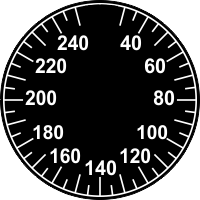
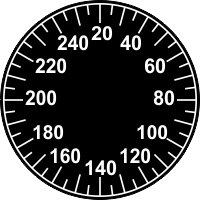
Přidán další budík + úprava bugu

Changed region(s): [[0.42, 0.0, 0.57, 0.21]]

diff --git a/GJAProject/src/cz/vutbr/fit/gja/proj/SpeedPanel.java b/GJAProject/src/cz/vutbr/fit/gja/proj/SpeedPanel.java
@@ -36,22 +36,37 @@ public class SpeedPanel extends JPanel implements PanelInterface
 
    public void setNumber(double start)
   {
-    if(this.max == 120.0)
+    if(this.max == 72.0)
     {
-      if(start > 120)
-      {
-        start = 120;
-      }
-      this.rotation = (360.0/(max/(double)start));
+        if(start > 720)
+        {
+          start = 720;
+        }
+        this.rotation = (360.0/(max/(double)start)); 
     }
     else
     {
-      if(start > 260)
+      if(this.max == 120.0)
       {
-        start = 260;
+        if(start > 120)
+        {
+          start = 120;
+        }
+        this.rotation = (360.0/(max/(double)start));
       }
-      this.rotation = 360.0/(max/(double)(start)) - 28.0 + ((((double)start - 20.0)/60.0)*7.0);    
+      else
+      {
+        if(start > 260)
+        {
+          start = 260;
+        }
+        this.rotation = 360.0/(max/(double)(start)) - 28.0 + ((((double)start - 20.0)/60.0)*7.0);    
+      }
     }
+    if(this.rotation < 0.0)
+    {
+      this.rotation = 0.0;    
+    }    
     revalidate();   
   }
   
@@ -60,19 +75,27 @@ public class SpeedPanel extends JPanel implements PanelInterface
     this.setNumber(item.getDouble());
   }
   
-  public void changeSpeed(boolean slow)
+  public void changeSpeed(double max)
   {
     try
     {
-      if(slow && this.max>120.0)
+      if(max <= 72.0)
       {
-        img1 = ImageIO.read(getClass().getResourceAsStream("resources/Speed2.png"));  
-        this.max = 120.0;
+        img1 = ImageIO.read(getClass().getResourceAsStream("resources/Speed3.png"));  
+        this.max = 72.0;
       }
-      else if(!slow && this.max<260.0)
-      {
-        img1 = ImageIO.read(getClass().getResourceAsStream("resources/Speed.png")); 
-        this.max = 260.0;
+      else 
+      {  
+        if(max <= 120.0)
+        {
+          img1 = ImageIO.read(getClass().getResourceAsStream("resources/Speed2.png"));  
+          this.max = 120.0;
+        }
+        else
+        {
+          img1 = ImageIO.read(getClass().getResourceAsStream("resources/Speed.png")); 
+          this.max = 260.0;        
+        }
       }
       revalidate();
     }

diff --git a/GJAProject/src/cz/vutbr/fit/gja/proj/GJAProjectView.java b/GJAProject/src/cz/vutbr/fit/gja/proj/GJAProjectView.java
@@ -83,7 +83,7 @@ public class GJAProjectView extends FrameView
 
             public void actionPerformed(ActionEvent e)
             {
-                time+=50.0/1000.0 * (double)animationSpinner.getValue();
+                time+=50.0/1000.0 * ((SpinnerNumberModel)animationSpinner.getModel()).getNumber().doubleValue();
                 if(time>data.getMaxTimestamp())
                 {
                   animationTimer.stop();
@@ -1080,7 +1080,7 @@ public class GJAProjectView extends FrameView
     {
       double val=var2.getDoubleAt(time);
       speedPanel1.setNumber(val);
-      speedPanel1.changeSpeed(var2.getMax()<120.0);
+      speedPanel1.changeSpeed(var2.getMax());
     }
     mainPanel.revalidate();
     this.mainPanel.repaint();

diff --git a/GJAProject/src/cz/vutbr/fit/gja/proj/PanelInterface.java b/GJAProject/src/cz/vutbr/fit/gja/proj/PanelInterface.java
@@ -5,5 +5,5 @@ import cz.vutbr.fit.gja.proj.utils.*;
 public interface PanelInterface 
 {
   public void setData(TelemetryData.TelemetryItem item);
-  public void changeSpeed(boolean slow);  
+  public void changeSpeed(double max);  
 }

diff --git a/GJAProject/src/cz/vutbr/fit/gja/proj/AltPanel.java b/GJAProject/src/cz/vutbr/fit/gja/proj/AltPanel.java
@@ -40,7 +40,7 @@ public class AltPanel extends JPanel implements PanelInterface
     }
   }
   
-  public void changeSpeed(boolean slow)
+  public void changeSpeed(double max)
   {
       
   }
